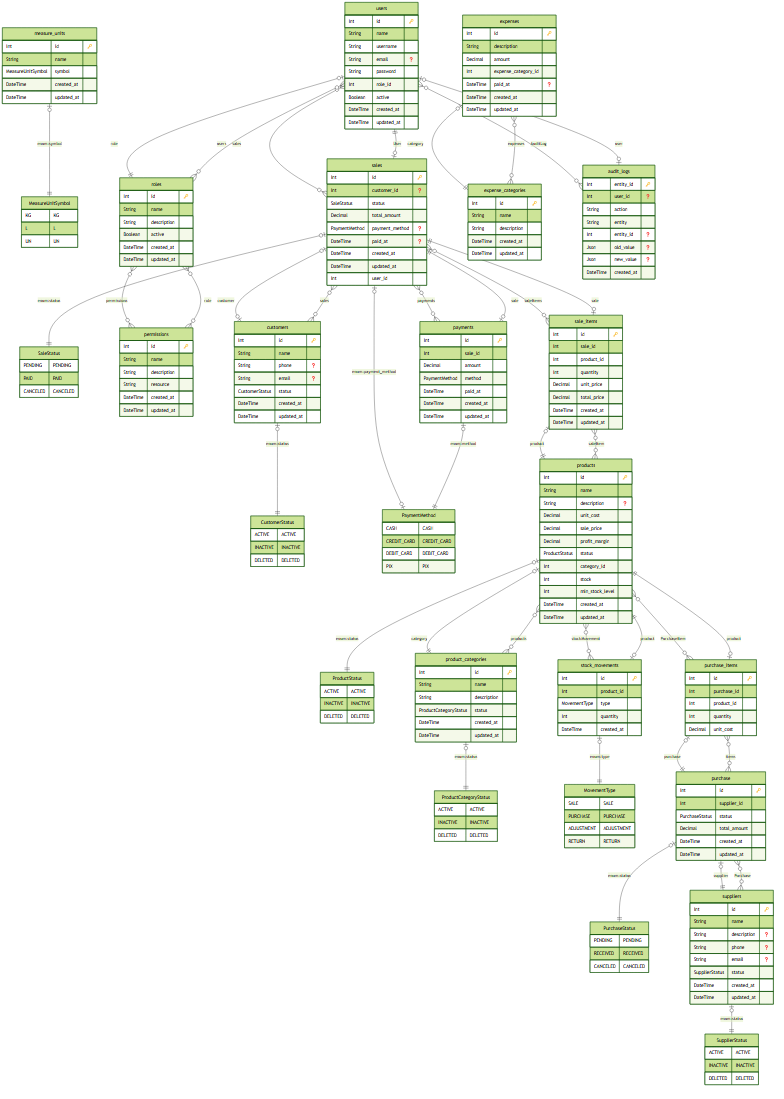
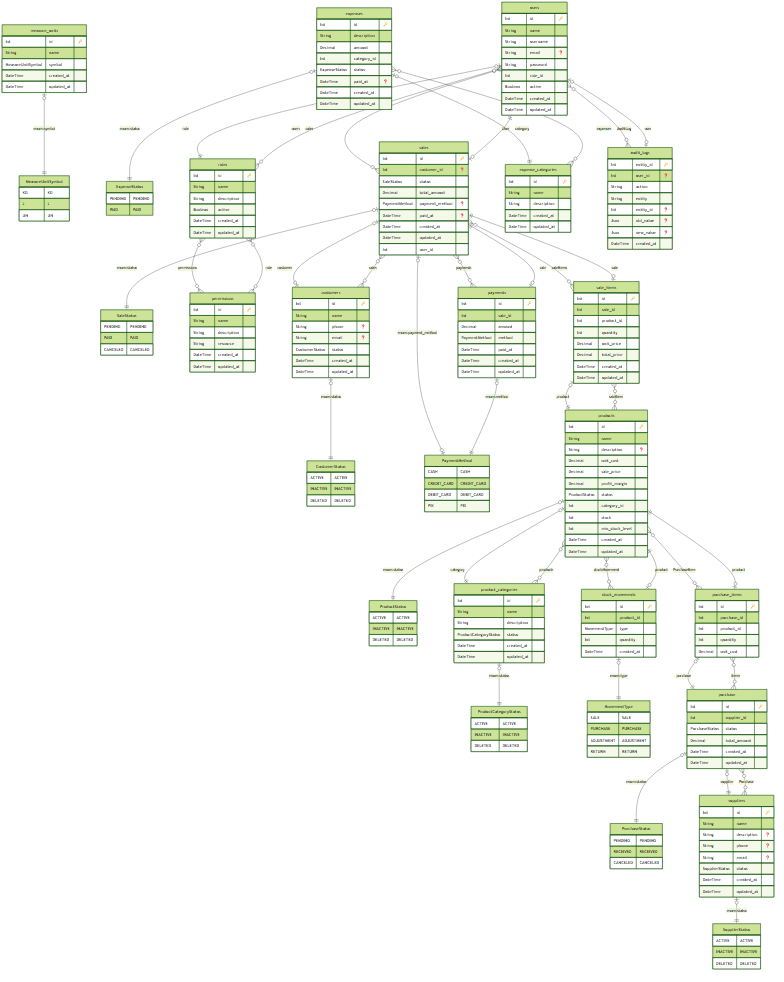
feat: add expense domain and update model on prisma

diff --git a/backend/src/domain/expense/enterprise/entities/expense.ts b/backend/src/domain/expense/enterprise/entities/expense.ts
@@ -1,0 +1,72 @@
+import { Entity } from '@/core/entities/entity'
+import { ExpenseCategory } from './expense-category'
+
+export type ExpenseStatus = 'PAID' | 'PENDING'
+
+export interface ExpenseProps {
+    description: string
+    amount: number
+    status: ExpenseStatus
+    categoryId: number
+    category?: ExpenseCategory
+    createdAt?: Date
+    updatedAt?: Date
+}
+
+export class Expense extends Entity<ExpenseProps> {
+    get amount() {
+        return this.props.amount
+    }
+
+    set amount(amount: number) {
+        this.props.amount = amount
+    }
+
+    get description() {
+        return this.props.description
+    }
+
+    set description(description: string) {
+        this.props.description = description
+    }
+
+    get status() {
+        return this.props.status
+    }
+
+    set status(status: ExpenseStatus) {
+        this.props.status = status
+    }
+
+    get categoryId() {
+        return this.props.categoryId
+    }
+
+    set categoryId(categoryId: number) {
+        this.props.categoryId = categoryId
+    }
+
+    get category(): ExpenseCategory | undefined {
+        return this.props.category
+    }
+
+    set category(category: ExpenseCategory) {
+        this.props.category = category
+    }
+
+    get createdAt() {
+        return this.props.createdAt
+    }
+
+    get updatedAt() {
+        return this.props.updatedAt
+    }
+
+    static create(props: ExpenseProps, id?: number) {
+        return new Expense(props, id ?? 0)
+    }
+
+    update(props: Partial<ExpenseProps>): void {
+        Object.assign(this.props, props)
+    }
+}

diff --git a/backend/src/domain/expense/enterprise/entities/expense-category.ts b/backend/src/domain/expense/enterprise/entities/expense-category.ts
@@ -1,0 +1,42 @@
+import { Entity } from '@/core/entities/entity'
+
+export interface ExpenseCategoryProps {
+    name: string
+    description: string
+    createdAt?: Date
+    updatedAt?: Date
+}
+
+export class ExpenseCategory extends Entity<ExpenseCategoryProps> {
+    get name() {
+        return this.props.name
+    }
+
+    set name(name: string) {
+        this.props.name = name
+    }
+
+    get description() {
+        return this.props.description
+    }
+
+    set description(description: string) {
+        this.props.description = description
+    }
+
+    get createdAt() {
+        return this.props.createdAt
+    }
+
+    get updatedAt() {
+        return this.props.updatedAt
+    }
+
+    static create(props: ExpenseCategoryProps, id?: number) {
+        return new ExpenseCategory(props, id ?? 0)
+    }
+
+    update(props: Partial<ExpenseCategoryProps>): void {
+        Object.assign(this.props, props)
+    }
+}

diff --git a/backend/src/domain/expense/application/repositories/epense.repository.ts b/backend/src/domain/expense/application/repositories/epense.repository.ts
@@ -1,0 +1,14 @@
+import { PaginationParams } from '@/core/repositories/pagination-params'
+import { Expense, ExpenseStatus } from '../../enterprise/entities/expense';
+
+export abstract class ExpenseRepository {
+  abstract findMany(
+    params: PaginationParams,
+    filters?: { search?: string, status?: ExpenseStatus },
+  ): Promise<{ expenses: Expense[]; total: number }>
+
+  abstract countExpensesByCategory(categoryId: number): Promise<number>
+  abstract findById(id: number): Promise<Expense | null>
+  abstract save(expense: Expense): Promise<void>
+  abstract create(expense: Expense): Promise<Expense>
+}

diff --git a/backend/src/domain/expense/application/repositories/expense-category.repository.ts b/backend/src/domain/expense/application/repositories/expense-category.repository.ts
@@ -1,0 +1,13 @@
+import { PaginationParams } from '@/core/repositories/pagination-params'
+import { ExpenseCategory } from '../../enterprise/entities/expense-category';
+
+export abstract class ExpenseCategoryRepository {
+  abstract findMany(
+    params: PaginationParams,
+    filters?: { search?: string },
+  ): Promise<{ categories: ExpenseCategory[]; total: number }>
+
+  abstract findById(id: number): Promise<ExpenseCategory | null>
+  abstract save(category: ExpenseCategory): Promise<void>
+  abstract create(category: ExpenseCategory): Promise<ExpenseCategory>
+}
